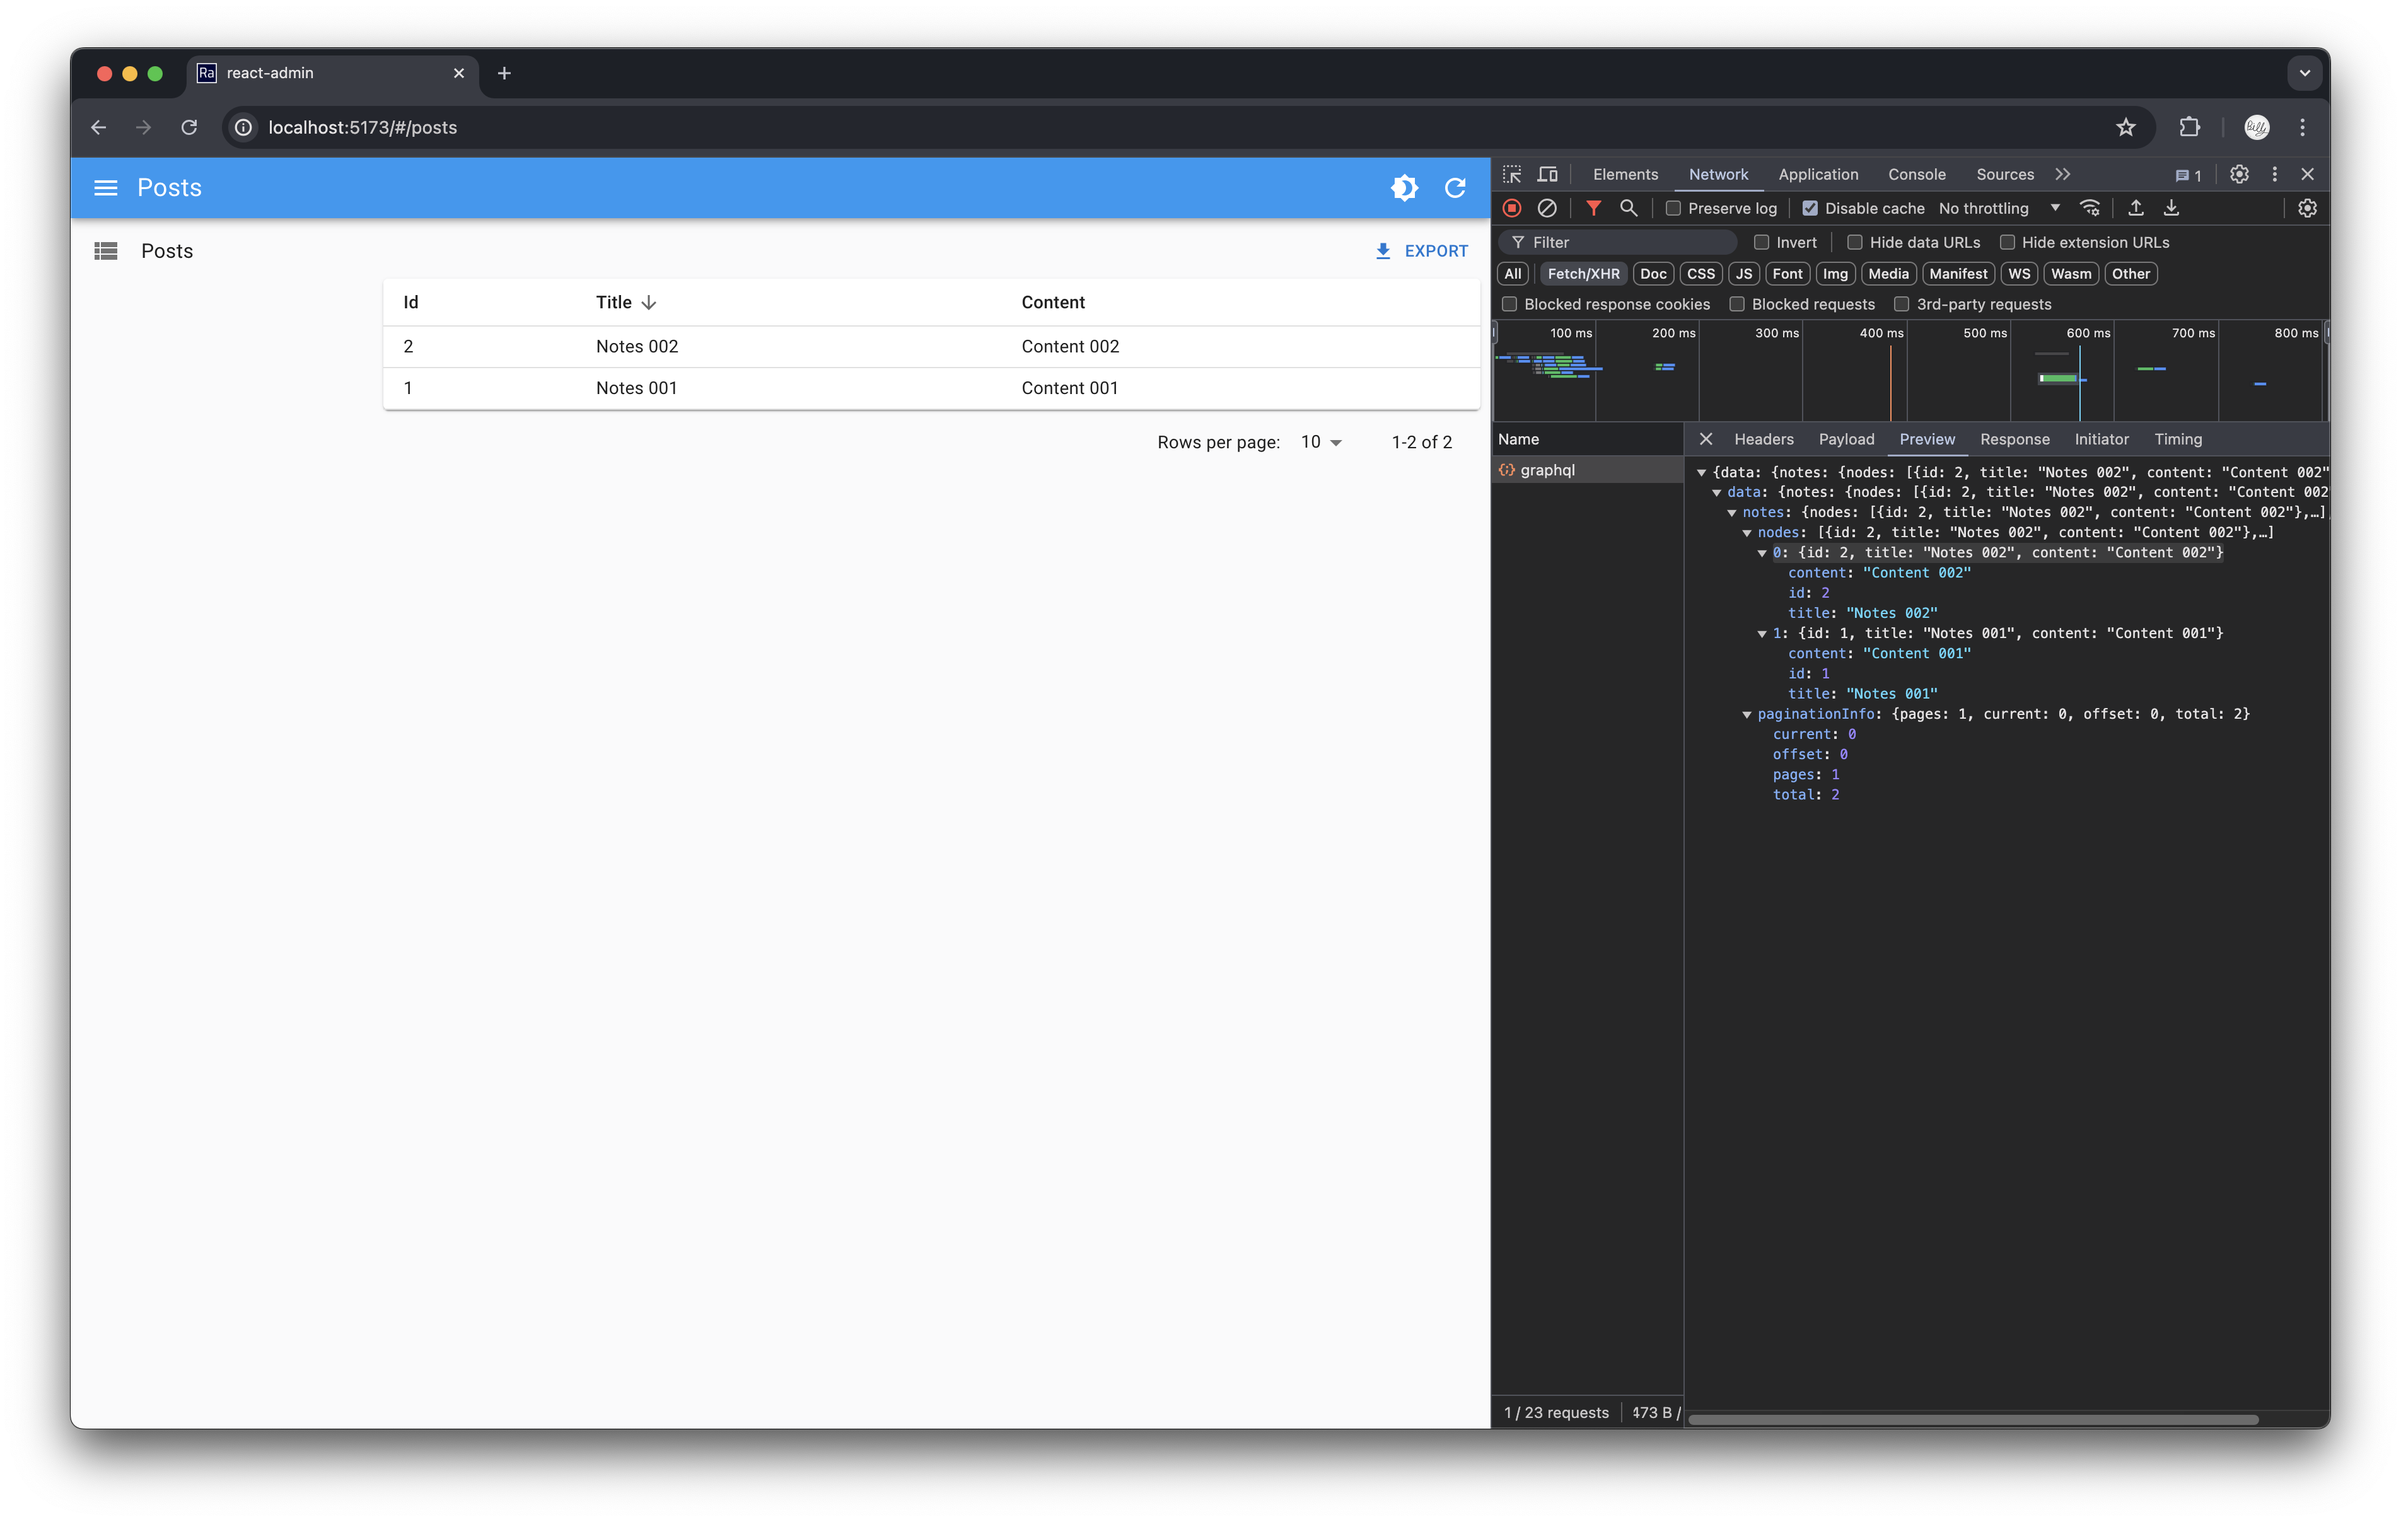
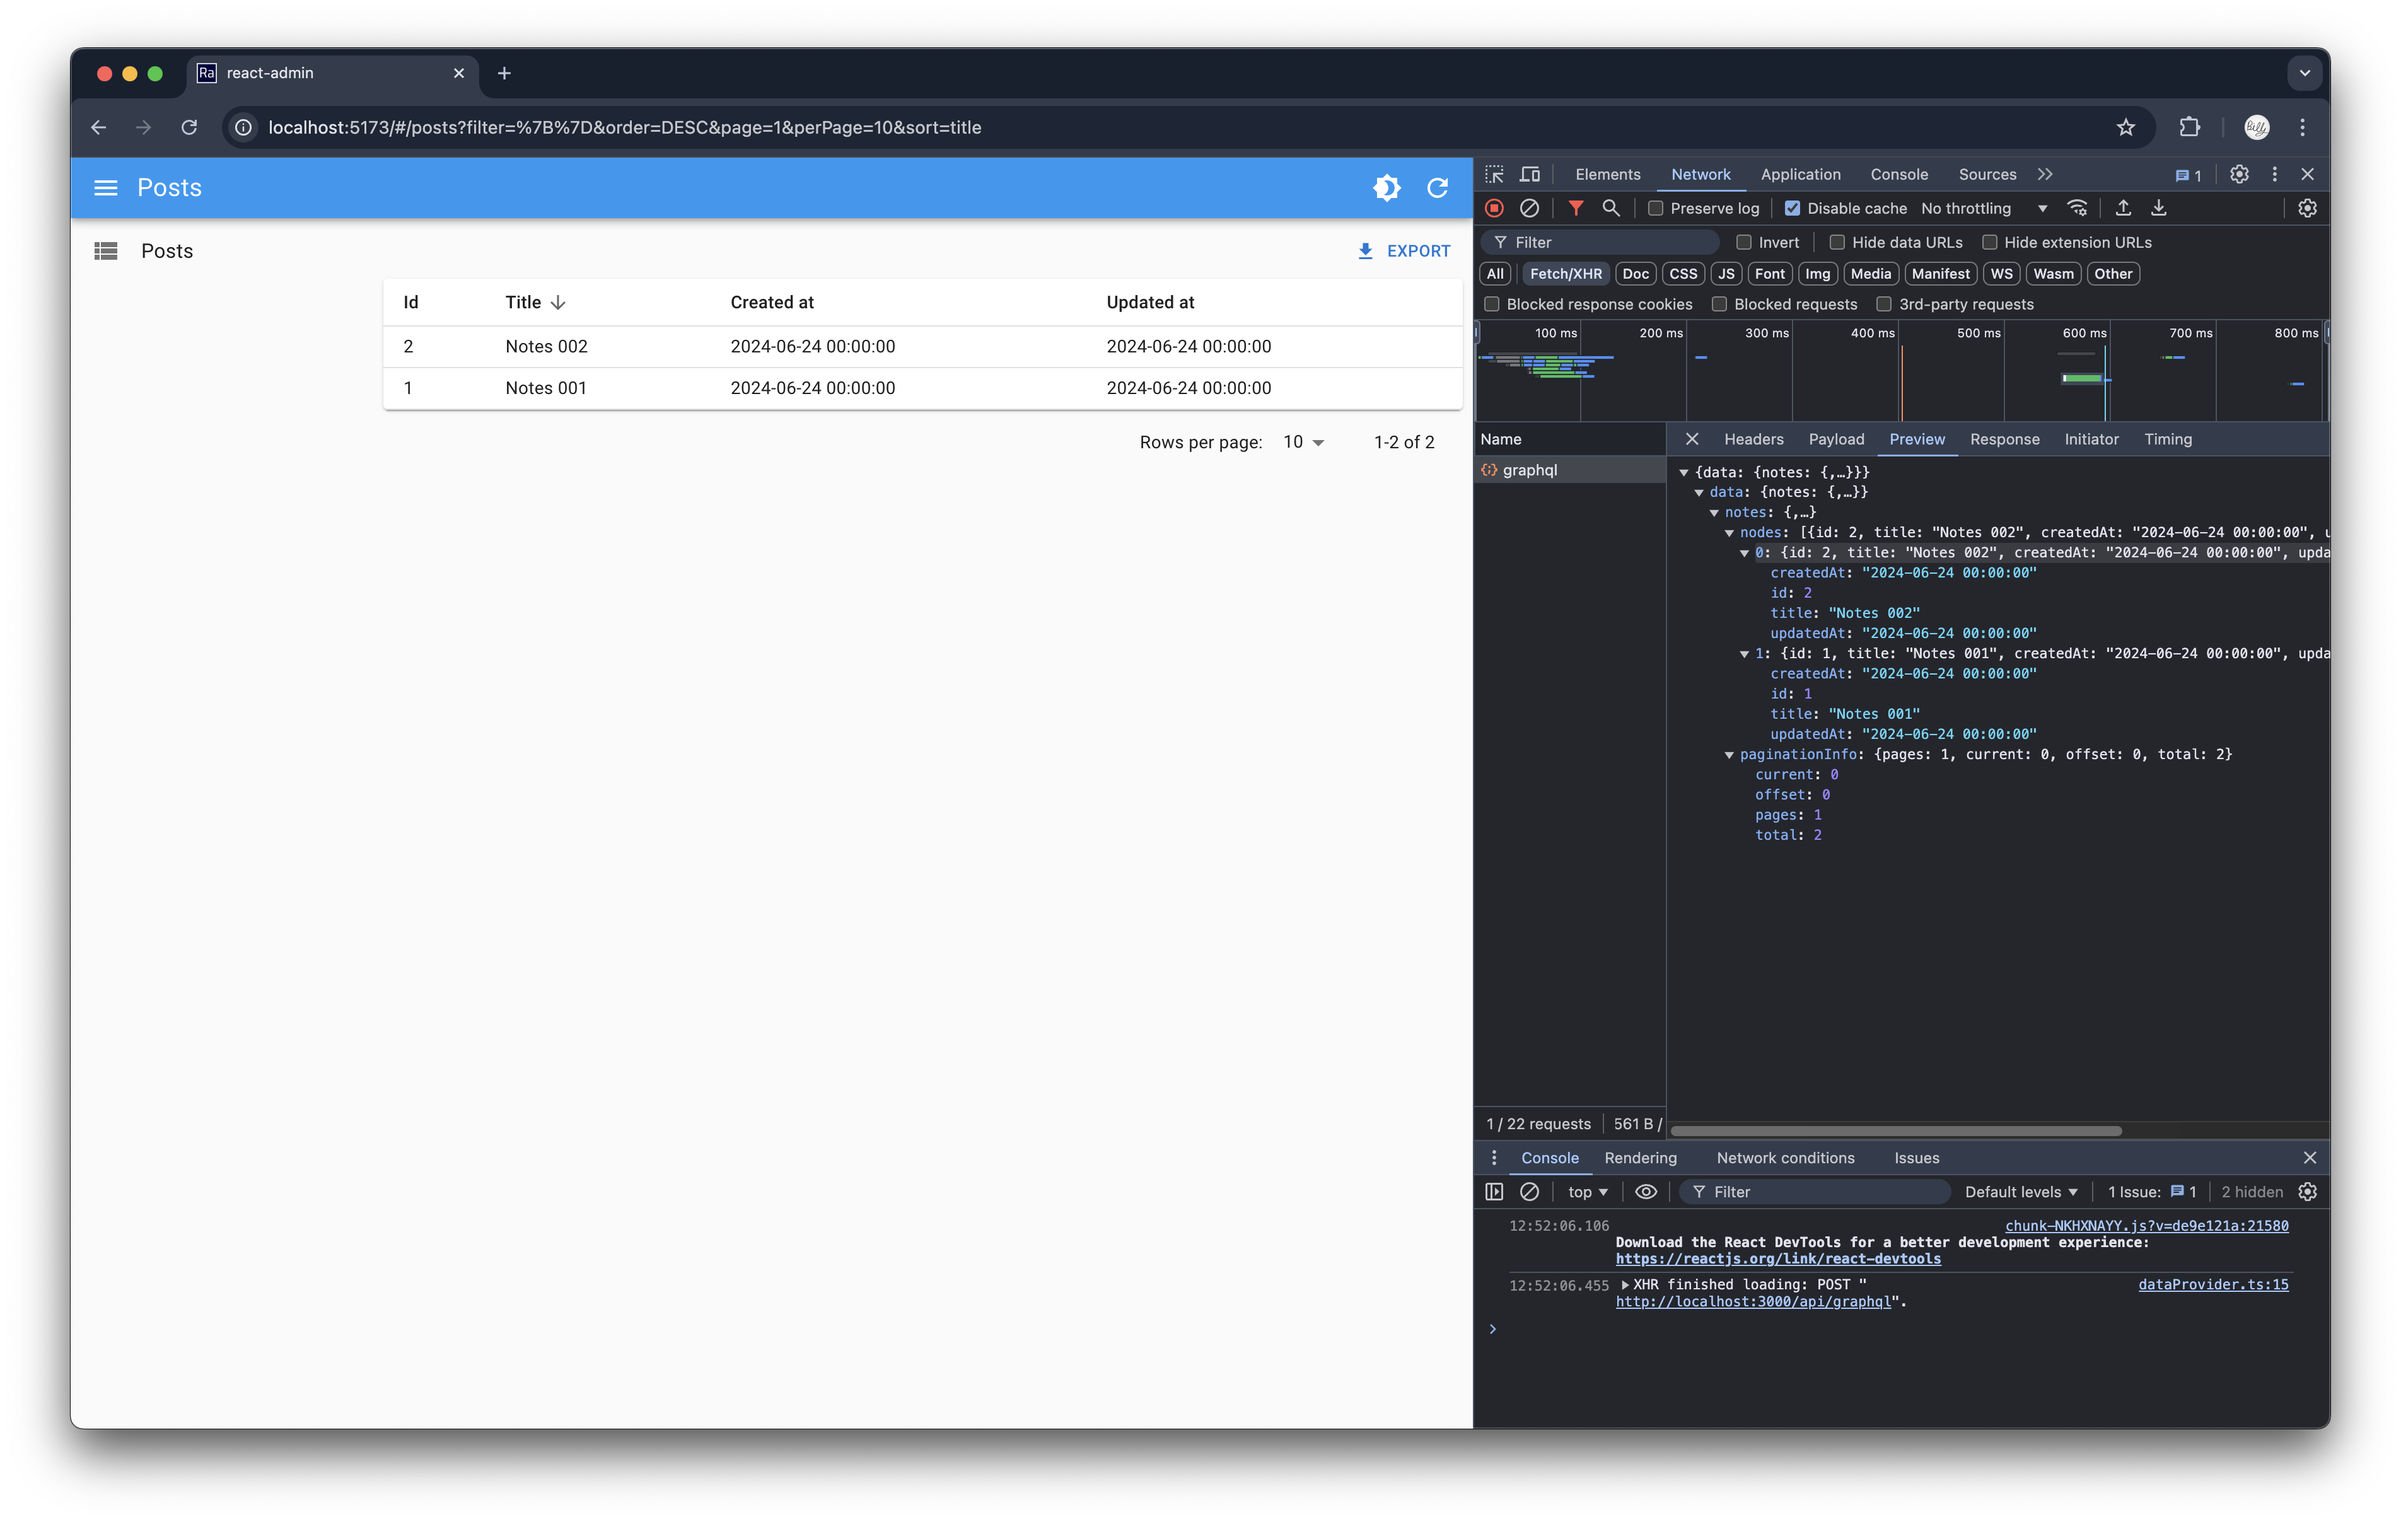
[Blog] edit

diff --git a/Blog/blog/2024-08-08-graphql-admin-dashboard-with-loco-seaography.md b/Blog/blog/2024-08-08-graphql-admin-dashboard-with-loco-seaography.md
@@ -148,7 +148,8 @@ export const dataProvider: DataProvider = {
                 nodes {
                   id
                   title
-                  content
+                  createdAt
+                  updatedAt
                 }
                 paginationInfo {
                   pages
@@ -182,6 +183,8 @@ export const dataProvider: DataProvider = {
                   id
                   title
                   content
+                  createdAt
+                  updatedAt
                 }
               }
             }
@@ -238,6 +241,8 @@ const PostList = () => (
             <TextField source="id" />
             <TextField source="title" />
             <TextField source="content" />
+            <TextField source="createdAt" />
+            <TextField source="updatedAt" />
         </Datagrid>
     </List>
 );
@@ -248,6 +253,8 @@ const PostShow = () => (
             <TextField source="id" />
             <TextField source="title" />
             <TextField source="content" />
+            <TextField source="createdAt" />
+            <TextField source="updatedAt" />
         </SimpleShowLayout>
     </Show>
 );
